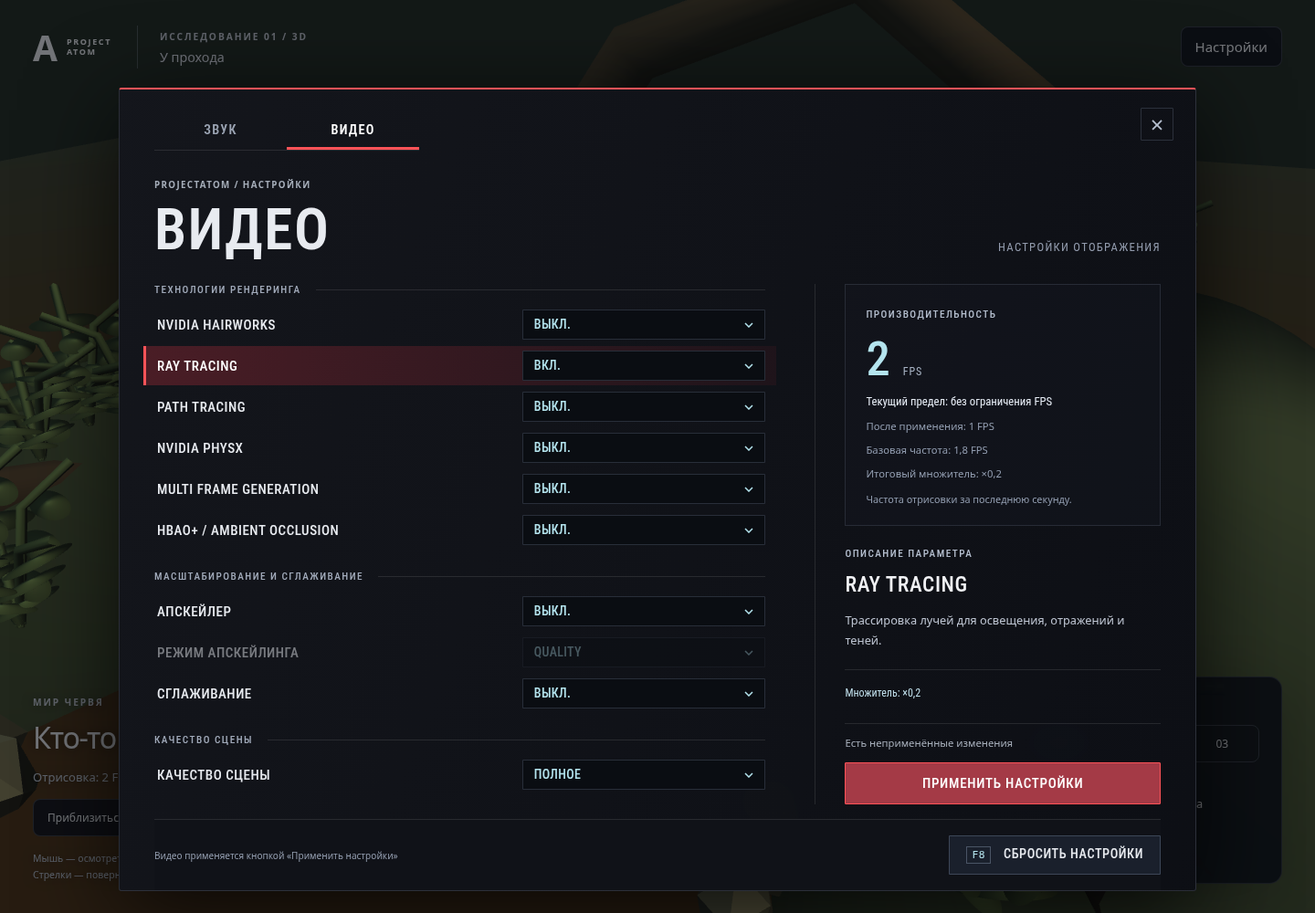
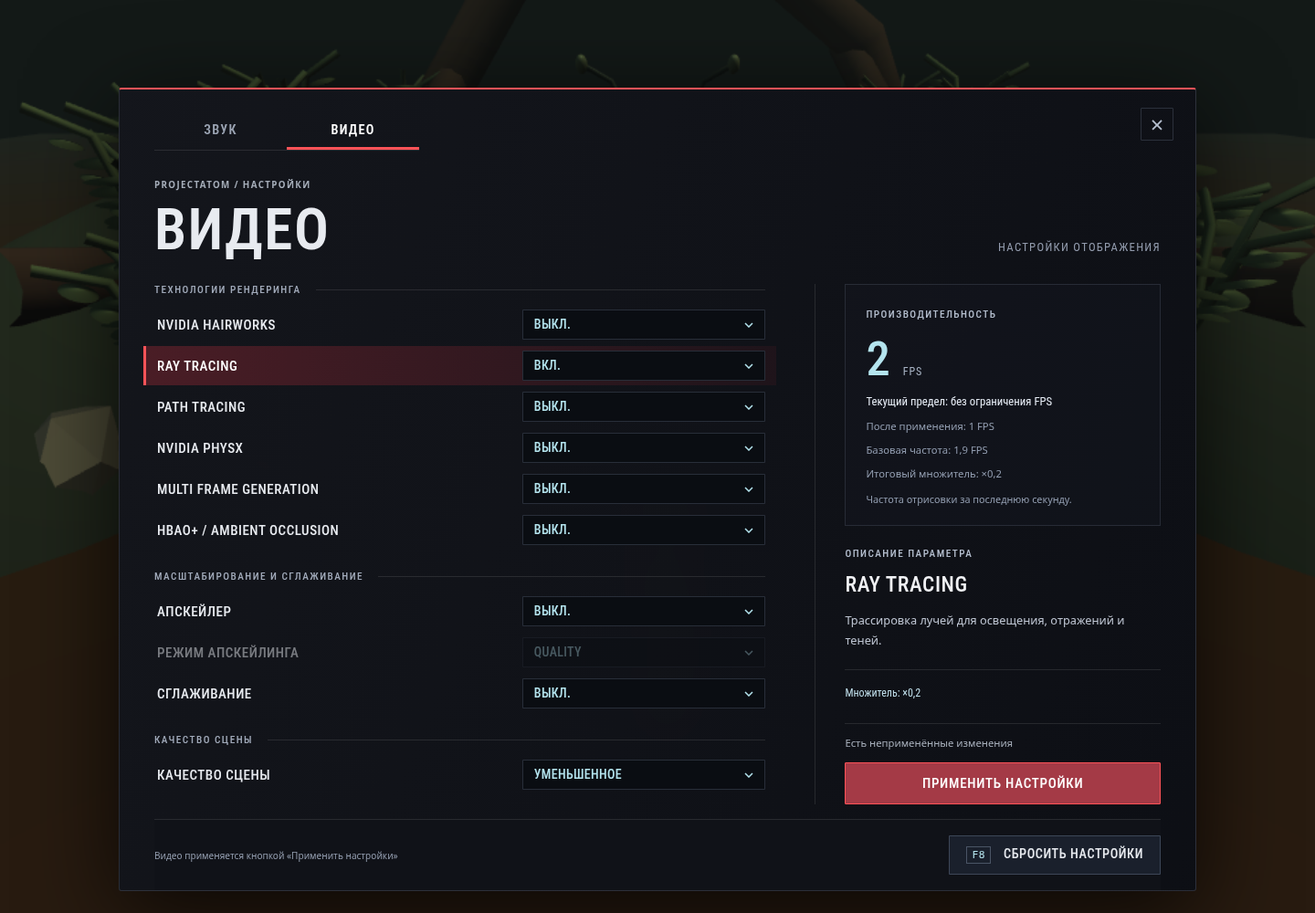
Document 0.9 controls and preserve ongoing validation status

diff --git a/tests/browser/study.spec.ts b/tests/browser/study.spec.ts
@@ -227,6 +227,7 @@ test('paid hints and optional recognition remain available only through the menu
   await expect(page.locator('#progress')).toHaveText('Распознано: 3 / 3');
   await page.locator('#quit').click();
   await page.locator('#enter').click();
+  await expect.poll(()=>page.evaluate(()=>document.pointerLockElement?.id)).toBe('world');
   await menu(page);
   await expect(page.locator('#hint-budget')).toHaveText('10');
 });

diff --git a/index.html b/index.html
@@ -3,7 +3,7 @@
   <head>
     <meta charset="UTF-8" />
     <meta name="viewport" content="width=device-width, initial-scale=1" />
-    <meta name="theme-color" content="#111914" />
+    <meta name="theme-color" content="#101218" />
     <link rel="icon" type="image/svg+xml" href="/favicon.svg" />
     <title>ProjectAtom — у прохода</title>
   </head>

diff --git a/docs/ARCHITECTURE.md b/docs/ARCHITECTURE.md
@@ -1,110 +1,56 @@
-# Архитектура 3D-технопробы
+# Архитектура управляемой 3D-технодемки
 
-Технопроба исследует читаемость модели и анимаций. Это пока не перенос всей игры в 3D: здесь нет оператора, создания матча, общего времени, лечения или финального взрыва. Предыдущая голосовая эстафета остаётся в `game.html`, эталон времени — в `sync-stand.html`. Оба файла сохранены без изменений.
+Babylon.js, TypeScript и Vite. Текущий этап — управляемый червь от третьего лица, жук-препятствие и подстилка; роли, общий матч и полная эстафета ещё остаются в `game.html`, три режима времени — в `sync-stand.html`. Эти файлы сохранены.
 
-## Карта проекта
+## Слои
 
-```text
-index.html                       точка входа браузера
-src/
-  main.ts                        сборка приложения, события, жизненный цикл
-  core/
-    observation.ts               наблюдения, варианты признаков, локальные ответы
-    motion.ts                    чистые траектории трёх жестов
-    observation.test.ts          проверка правил и геометрии движений
-  render/
-    createStudyScene.ts          движок, камера, свет, тени, качество, освобождение ресурсов
-    environment.ts              почва, корни, растения, следы контакта
-    meshTools.ts                 вспомогательное построение геометрии
-    contactAudio.ts              включаемые звуки удара и скрежета
-    models/
-      beetle.ts                  контракт заменяемой модели
-      proceduralBeetle.ts        первая модель и её сочленённые лапы
-  ui/studyView.ts                 DOM, формы и сообщения
-  style.css                      оформление и адаптивная компоновка
-tests/browser/study.spec.ts       проверка собранного приложения с настоящим WebGL
-public/                          поставляемые локально ресурсы
-dist/                            результат сборки, не хранится в Git
-```
+- `core/observation.ts`, `motion.ts`: воспроизводимые признаки и чистые траектории жестов.
+- `core/walk.ts`: положение/направление червя, нормализованное движение относительно камеры, ограничения прохода, действие подстилки и временная шкала жука.
+- `core/timing.ts`: часы попытки, планирование отрисовок, счётчик реальных кадров, замер доступной частоты.
+- `core/graphics.ts`: модель множителей и верхних пределов. `core/hints.ts`: общий запас и открытые уровни.
+- `render/createStudyScene.ts`: камера, освещение, тени, отображение мира, подстилка и качество.
+- `render/models/proceduralWorm.ts`: сегментированная модель червя и волна движения по пройденному расстоянию.
+- `render/models/proceduralBeetle.ts`: объёмный жук, три жеста и добавленная походка.
+- `render/environment.ts`: почва, корни, растения, пыль/следы контакта. Статические меши группируются по материалам.
+- `render/contactAudio.ts`: локальный синтез звука через общий GainNode, громкость и выключение.
+- `ui/studyView.ts`: старт, маленькое Escape-меню, настройки, платные подсказки и скрытая техническая проверка.
+- `ui/graphicsPanel.ts`: форма параметров, применённый снимок, предпросмотр и кнопка применения.
+- `main.ts`: время, ввод/Pointer Lock, жизненный цикл попытки, правила и рендер.
 
-Зависимости направлены от представления к правилам: `core` не импортирует Babylon.js или DOM. `main.ts` связывает состояние наблюдения с интерфейсом и сценой. Модель не знает, как игрок ответил на вопрос. Справочник и будущие эстафеты не должны обращаться к конкретным мешам или суставам.
+Core не импортирует Babylon.js или DOM. Зависимости идут от представления к правилам. Нет ECS, универсального движка квестов, игрового сервера или обмена состоянием через localStorage.
 
-## Модель и анимации
+## Время и движение
 
-`BeetleFactory` создаёт `BeetleActor`. У него есть корневой узел, `present({ gesture, symbol, seconds })` и `dispose()`. Фабрика передаётся в асинхронную `createStudyScene`; она может сразу вернуть актёра или вернуть Promise для загрузки GLB. По умолчанию используется процедурная модель. Это точка замены модели, а не универсальная система персонажей.
+ActiveClock — общий монотонный отсчёт текущей локальной попытки. Он активируется при входе и выключается только при завершении попытки. Меню, настройки и скрытие страницы не вызывают setActive(false). При следующем обновлении учитывается весь прошедший интервал. Это не готовый сетевой/UTC-таймер двух игроков: формат общего старта ещё нужно перенести из эталона. Сон ОС и разные платформы требуют отдельной проверки.
 
-Сейчас тело, панцирь, глаза, усики, брюшная пластина, знаки и шесть сочленённых лап строятся из геометрии Babylon.js. Траектория активной лапы задаётся в `core/motion.ts`, а модель превращает её в положение сегментов. Это постановочная анимация с меняющейся длиной сегментов, не полноценная биомеханическая симуляция или готовый скелетный риг.
+WalkSession продвигается независимо от допуска к дорогой отрисовке. Интервал разбивается на шаги не крупнее 1/120 секунды, диагонали нормализованы. Границы: X от −1,35 до 1,35; Z от −6,2 до 7,2. Пока жук блокирует, действует круг радиуса 1,92 у начала координат. Проекция учитывает и стенку, и круг, чтобы не продавить персонажа на их стыке. Движение не накапливает долг в меню; при остановке у препятствия лишняя работа пропускается. Это маленькая плоская модель столкновений, не проверка независимости будущей общей физики от FPS.
 
-Три жеста имеют разные признаки:
+Обработчики клавиш и мыши сначала учитывают движение по прежнему вводу до времени события, затем меняют ввод. Открытие меню, потеря захвата, blur и скрытие очищают клавиши. Клавиши берутся по code (KeyW и т.д.), чтобы раскладка не меняла WASD. Камера меняет yaw/pitch от movementX/Y, не требует нажатой кнопки. Для захвата нужен жест пользователя. При отказе остаётся меню с повторным запросом, а не молчаливый возврат к drag-управлению.
 
-- `wave`: лапа всё время над поверхностью; нет контакта, пыли и звука удара.
-- `tap`: два коротких контакта в одном месте и пауза; есть отдельные звуковые импульсы.
-- `scrape`: длительный контакт с перемещением вдоль земли; растут борозды и звучит скрежет.
+## Жук и подстилка
 
-Пауза останавливает локальное время жеста и звук. В скрытой вкладке время жеста также не продвигается. Это политика самостоятельной технопробы; она не определяет будущую политику общего таймера матча. Камеру можно вращать и во время паузы.
+До действия жук показывает выбранные знак и жест. E доступна после подхода к нему и кладёт одну подстилку. Это техническая последовательность, а не готовое сопоставление голосовых признаков с материалом. Дополнительный справочник/роль оператора не добавлялись.
 
-## Как позднее добавить модель из Blender
+Временная шкала от E: подход до 1,8 с, подбор до 2,6 с, уход до 5 с. Проход освобождается после 1,5 с, подстилка поднимается с 2,3 с и затем следует за жуком. Root актёра перемещается по сглаженной траектории; походка передаётся в present через необязательное walking. Пыль/следы жеста у исходного места выключаются после начала ухода, звук жеста заглушается. После завершения жук остаётся сбоку в окружении; нет мгновенного удаления модели.
 
-1. Хранить исходный `.blend` отдельно от готовой сборки, например в `art/source/`, экспортировать GLB в `public/models/`.
-2. Согласовать масштаб (одна единица — один метр), землю `Y=0` и перед персонажа вдоль `-Z`.
-3. Подготовить скелет и клипы `idle`, `wave`, `tap`, `scrape`. Знак на брюшке должен быть отдельной заменяемой деталью или материалом.
-4. Добавить Babylon glTF loader и отдельную фабрику `createGlbBeetle`. Она загрузит модель, реализует тот же `BeetleActor` и сопоставит названия клипов с `gesture`, а `seconds` — с временем воспроизведения.
-5. Передать новую фабрику в `createStudyScene`. Правила распознавания и UI не менять.
-6. Сверить моменты контакта анимационных клипов с пылью и звуком. Для клипов другой длительности нужно также обновить временные метки контакта; одной замены файла недостаточно.
+Брюшко, панцирь, глаза, усики, шесть сочленённых лап и три жеста сохранены. `wave` не касается земли; `tap` делает два контакта; `scrape` тянет лапу вдоль земли. Текущие суставы/сегменты постановочные, не полноценная биомеханика.
 
-Загрузчика GLB и демонстрационной модели из Blender сейчас нет: контракт подготовлен, фактический импорт проверяется при появлении первого такого ресурса. Все нынешние модели созданы программно внутри проекта; сторонние модели и внешние текстуры не используются.
+## Камера и модель
 
-## Контент и будущая игра
+ArcRotateCamera не подключает стандартные drag-вводы. Target следует за червём; камера получает углы мыши и выбирает дистанцию лучом до земли, земляного банка или крупного корня. Это простой ограничитель для данной сцены, не универсальная камера с физикой всех растений и декоративных объектов.
 
-`createObservations(seed)` воспроизводимо задаёт три наблюдения: каждый жест встречается один раз, порядок и знаки меняются. Число в параметре URL `?seed=12` удобно для повторной проверки. Это локальный сид технопробы, не пакет матча ATOM1 и не обещание совместимости генераторов.
+BeetleFactory асинхронная, BeetleActor имеет root, present({gesture,symbol,seconds,walking?}) и dispose. GLB-загрузчика и проверенной Blender-модели пока нет. Для замены потребуются масштаб, направление (жук смотрит в −Z, червь в +Z), клипы жестов и ходьбы, сопоставление их времени, знаков, контактов, звука и переноса подстилки. Одного копирования GLB недостаточно. Первые модели процедурные; Blender не нужен для запуска разработки.
 
-Обычный HUD не называет текущий жест. Игрок может выбрать описание для проверки; правильность появляется только после ответа. Варианты ответа скрыты в details. Подсказки открываются только по запросу и расходуют общий HintBank. Бесплатного описания в настройках нет.
+## Меню, настройки и подсказки
 
-При переносе эстафеты из `game.html` её состояния и переходы следует вынести в отдельный модуль `core/relay`, а сгенерированные соответствия — в данные контента. Обе роли останутся в одном приложении. Действия партнёра передаются голосом и последующим вводом; состояние мира не синхронизируется через физический движок, сеть или общий localStorage.
+Escape открывает небольшое центральное меню: продолжить, настройки, выйти. Оно освобождает мышь и останавливает только пользовательский ввод. Повторный Escape/продолжение возвращает Pointer Lock. Настройки открывают большое окно; закрытие возвращает маленькое меню. Выход завершает попытку и возвращает стартовый экран, не вызывает window.close. Полноценное главное меню/жизненный цикл — следующий проектный этап после пользовательской проверки.
 
-Не вводим заранее сетевой сервер, сложную ECS, универсальный редактор квестов или глобальную шину событий. Новую эстафету сначала выражаем небольшим набором состояний и действий; обобщаем только реально повторившиеся части.
+В игровом HUD нет кнопок; только пассивные FPS, клавиши и контекст E. Подсказки и проверка наблюдений находятся в раскрываемых блоках меню. HintBank: 10 общих очков, 3 уровня события beetle, открытые уровни читаются бесплатно и обновляют признаки при смене варианта. Новый запуск сбрасывает помощь и ответы; параметры звука/видео остаются до перезагрузки.
 
-## Сборка и поставка
+Настройки сохраняют серьёзный стиль и вкладки «Звук / Видео». Видео хранит отдельно форму и применённый снимок, включая реальное качество. Ничего не применяется до кнопки справа. F8/сброс также изменяют только форму. Громкость действует сразу через общий GainNode. Подробности: [модель FPS](design/FPS.md), [визуальное направление](design/VIDEO.md). Счётчик считает фактические scene.render, а усиления только возвращают ранее ограниченные отрисовки в пределах доступной производительности. Звук, часы и правила не ограничиваются FramePacer.
 
-Babylon.js, TypeScript и Vite закреплены в `package-lock.json`. Воспроизводимая установка — `npm ci`; никаких CDN при игре. Движок импортируется отдельными модулями, чтобы не включать весь Babylon.js со всеми подсистемами.
+## Проверки и сохранение
 
-`npm run build` проверяет типы и создаёт `dist/`. Его можно целиком скопировать на другой компьютер и раздавать локальным HTTP-сервером. Это одна сборка приложения с несколькими файлами; открытие `dist/index.html` через `file://` не поддерживается. Публичный сервер не нужен. Локальный сервер только отдаёт файлы.
+Чистые тесты покрывают контент/траектории, часы/кадры, множители, помощь, движение/столкновения и уход. Браузерный набор проверяет производственную сборку с реальным WebGL и Pointer Lock: WASD/мышь, меню без паузы, настройки/применение, звук, подсказки, узкий экран, потерю контекста и отказ захвата. Окончательные результаты и открытые ограничения фиксируются в [HANDOFF](HANDOFF.md). Отдельный пользовательский прогон Windows/Mac пока не проводился.
 
-## Проверка
-
-- `npm run test:unit`: воспроизводимость контента, локальные ответы и физические различия траекторий, включая непрерывность цикла.
-- `npm run build`: TypeScript и производственная сборка.
-- `npm test`: собранный сайт, реальный WebGL, изменение изображения при движении и стабильность при паузе, камера, звук, подсказки, исправление ответа, отсутствие внешних запросов, узкий экран и потеря видеоконтекста.
-
-Linux Chromium в облаке использует программный рендеринг для тестов. Его результаты не устанавливают производительность на видеокартах Windows/Mac и не доказывают, что человек уверенно различает жесты. Для этого нужен отдельный пользовательский прогон.
-
-## Первый пользовательский прогон
-
-1. Сначала оставь звук выключенным, подсказки и проверку ответа закрытыми. Посмотри три наблюдения в общем плане и вблизи.
-2. Попробуй описать другому человеку знак и движение без чтения вариантов ответа. Может ли он различить взмах, удар и скребущее движение по твоему рассказу?
-3. Затем проверь ответы в интерфейсе. Если ошибся, отметь, что мешало: ракурс, перекрытая лапа, слишком похожая траектория или недостаточно заметный контакт с землёй.
-4. Включи звук и сравни впечатление. Он может помогать, но визуальное различие должно работать и без него.
-5. Повтори в браузерах Windows/Mac. Если сцена тормозит, проверь уменьшенное качество и зафиксируй браузер и устройство. Облачные тесты не устанавливают целевую частоту кадров.
-
-## Время, графика и помощь (0.8)
-
-`core/timing.ts`: ActiveClock считает всё активное время по performance.now, меняет состояние на событиях входа, паузы и видимости. Смена наблюдения сбрасывает его время. FramePacer допускает только отрисовки с нужным интервалом; после задержки нет серии догоняющих кадров. На 5 FPS цикл жеста сохраняет длительность, но движение становится прерывистым. Звук обновляется независимо от разрешения рисовать. Будущая физика потребует отдельного фиксированного шага; в этой пробе её независимость от FPS не проверяется.
-
-FrameMeter учитывает только выполненные scene.render в основном цикле (прогрев до входа в сцену не включён). Canvas содержит data-animation-time и data-render-count для интеграционных проверок. DOM не ограничен FramePacer, busy-wait нет.
-
-`core/graphics.ts` вычисляет произведение затрат и усилений от замеренной базы X вместо прежней таблицы фиксированных FPS. Реальные коэффициенты модели, источники и ограничения в [design/FPS.md](design/FPS.md). `effectiveFrameCap(settings, baselineFps, cinematicCap = 0)` возвращает 0 для отсутствия искусственного лимита. Ручной и будущий художественный пределы — верхние границы после умножения. `UncappedFpsSampler` принимает только фактические неограниченные отрисовки при активной видимой сцене, фиксирует базу после ≥1,5 секунды и ≥3 интервалов. Скрытие/пауза прерывают незавершённую выборку; ограниченные кадры не снижают базу повторно. Реальная смена качества сцены сбрасывает замер.
-
-`ui/graphicsPanel.ts` управляет настройками без сохранения. `core/hints.ts` хранит общий запас и последовательные уровни событий, не знает о DOM. В пробе одно событие beetle с тремя уровнями и запасом 10: общий намёк, предложение описать необычное партнёру, прямое описание текущего знака и жеста. Прочтение и смена наблюдения не списывают очки; перезагрузка сбрасывает прогресс. Распределение помощи между ролями полной игры ещё не спроектировано.
-
-Графическая панель оформлена как широкое меню с секциями технологий, реконструкции изображения и частоты кадров. Все переключатели технологий — семантические select с вариантами «Выкл.»/«Вкл.», выбор технологии апскейлера включает отдельный select режима. Справа отображаются реальные отрисовки, действующий предел, предпросмотр изменений и контекстное пояснение строки по наведению, фокусу или выбору. На экранах до 750 px колонки становятся одной, панель прокручивается. Клавиатурный выбор и доступные названия сохранены.
-
-Проверка итоговой версии 0.8: npm run test:unit — 11 прошли; npm run build — успешно; полный npm test с системным Chromium — 6 прошли, без пропусков. Снимки обычного экрана и графического меню обновлены и просмотрены. Тест паузы сравнивает изображение самого canvas и активное время, а не пиксели DOM-кнопок. Это проверка Linux/программного WebGL, не замер производительности Windows/Mac.
-
-Последующее уточнение подачи: вкладка «Видео», нейтральные описания и серьёзное оформление без обозначения пародии в DOM. Диагностические пределы временно видны по запросу пользователя; актуальная модель множителей описана в design/FPS.md. Локальный Roboto Condensed (OFL) и палитра описаны в [design/VIDEO.md](design/VIDEO.md).
-
-
-## Центральное окно и применение параметров
-
-`studyView.ts` содержит один диалог постоянного размера, вкладки «Звук»/«Видео», фон, закрытие, возврат фокуса и навигацию вкладок стрелками. При открытии настроек сцена не ставится на паузу: это позволяет оценивать живой FPS. Кнопка паузы сцены сохраняет прежнее действие.
-
-`graphicsPanel.ts` хранит отдельно форму и применённые параметры, включая реальное качество сцены. Рендер получает только применённый снимок. Редактирование, F8, сброс, смена вкладки и закрытие не применяют видео. Кнопка справа под описанием атомарно принимает значения; изменение реального качества отправляется в main через video-quality-change и перезапускает замер. Звук меняется сразу, независимо от формы видео. ContactAudio направляет все источники через общий GainNode, регулятор 0–100% управляет им; пауза и выключение заглушают общий выход.
+Все текущие ресурсы локальные: движок в сборке, генерируемые модели/текстура/звук, локальный шрифт OFL. Публичный сервер и внешние запросы для игры не нужны. `dist` раздаётся через HTTP; открытие file:// не поддерживается. Установка — npm ci; сборка — npm run build; тесты — npm run test:unit и npm test. Каждая cloud-задача уже изолирована: использовать существующий checkout, не создавать worktree без просьбы пользователя. Регулярно обновлять HANDOFF и отправлять контрольные коммиты в экспериментальную ветку, без автоматического слияния в main/dev.

diff --git a/README.md b/README.md
@@ -1,87 +1,68 @@
-# Атомная бомба против умирающего червя
+# ProjectAtom
 
-[ТЗ и решения по игре](PROJECT_KNOWLEDGE.md) описывают концепцию, согласованные требования, результаты тестов и открытые вопросы.
+Асимметричная кооперативная 3D-игра про оператора, вымышленную атомную бомбу и выживающего червя. Требования и решения — [PROJECT_KNOWLEDGE.md](PROJECT_KNOWLEDGE.md).
 
-## 3D-технопроба на Babylon.js
+## Управляемый червь — технодемка 0.9
 
-![Жук в сцене Babylon.js](docs/images/beetle-study.png)
+Рабочая ветка: `spike/worm-third-person`. [Контекст восстановления и контрольные сохранения](docs/HANDOFF.md) — первый файл для продолжения после потери чата.
 
-Текущая работа — в ветке `spike/beetle-3d`. Это отдельная сцена для проверки объёмного жука и различимости жестов: машет, стучит, скребёт. Полная голосовая эстафета остаётся в старом `game.html` ниже. `main` и `dev` не обновлялись.
+![Червь от третьего лица](docs/images/worm-play.png)
 
-Нужен **Node.js 24 LTS** (или Node.js 22.18+). После установки Node заново открой терминал. Из папки проекта:
+Это локальный фрагмент для проверки управления: червь движется по земляному проходу, жук перекрывает дорогу. Можно подойти, осмотреть жука, положить подстилку сбоку и увидеть, как он подбирает её и уходит. Полная голосовая эстафета, выбор ролей, общий пакет старта, лечение и финал в эту 3D-версию ещё не перенесены.
 
-```bash
-git fetch origin
-git switch spike/beetle-3d
-npm ci
-npm run dev
-```
+### Запуск на Windows
 
-Открой адрес, который напишет Vite (по умолчанию `http://127.0.0.1:5173`). Нажми «Осмотреть место». Перетаскивай сцену мышью, приближай колесом; кнопки «Приблизиться» и «Общий план» возвращают удобные ракурсы. Переключатели 01–03 показывают три наблюдения. Текущий жест текстом не назван: сначала посмотри, затем по желанию раскрой «Проверить себя · технопроба». Настройки открываются в одном центральном окне: «Звук» содержит выключатель и общую громкость, «Видео» — параметры изображения и качество сцены. Звук по умолчанию выключен.
-
-Для повторения одинакового набора открой страницу с `?seed=12`. Во время проверки с партнёром сначала опиши движение и знак голосом; не зачитывай варианты ответа. Это ещё не полноценный матч с ролями.
-
-Остановка сервера: `Ctrl+C`. Для готовой сборки:
-
-```bash
-npm run build
-npm run preview
-```
-
-Готовые файлы находятся в `dist/`; всю папку можно передать на другой компьютер и запустить там локальную раздачу файлов. Открытие HTML двойным щелчком для этой версии не поддерживается. После установки зависимостей сборка и сама сцена не требуют внешних сервисов: модели, текстуры и звук создаются локально.
-
-Карта модулей и порядок будущей замены модели на Blender/GLB: [docs/ARCHITECTURE.md](docs/ARCHITECTURE.md).
-
-Проверки разработчика:
-
-```bash
-npm run test:unit
-npm run build
-npx playwright install chromium
-npm test
-```
-
-В облачной среде уже установлен системный Chromium; вместо загрузки браузера используется `PLAYWRIGHT_CHROMIUM_EXECUTABLE_PATH=/usr/bin/chromium npm test`. Эти проверки не измеряют скорость игры на компьютерах игроков. Форматирование кода: `npm run format`.
-
-## Эталон времени и предыдущий 2D-макет
-
-[sync-stand.html](sync-stand.html) содержит исходный код стенда и запускается как самостоятельная HTML-страница. Для проверки открой файл в браузере на Windows и Mac, создай код на одном устройстве и введи его на другом. Интернет-время выбрано по умолчанию и обращается к UTCTime перед стартом. Системные часы и ручной запуск доступны в меню создания теста.
-
-Для продолжения разработки начни с разделов 6 и 11 ТЗ и сохрани рабочее поведение трёх режимов. Этот стенд можно использовать как эталон при переносе логики времени в игру.
-
-
-## Первый игровой макет
-
-Открой `game.html` на каждом компьютере (один и тот же файл). Игрок 1 выбирает «оператор», режим старта и создаёт глобальный сид. Игрок 2 выбирает «червь» и вставляет весь полученный сид. Для ручного режима оба нажимают «Начать» под голосовой отсчёт. Для системного/интернет-времени дождитесь старта. Интернет-время требует доступа к `https://utctime.app`; при ошибке можно явно создать новую игру в другом режиме.
-
-Дальше общайтесь голосом: червь описывает знак и жест жука, оператор ищет инструкцию на компьютере. После открытия прохода червь сообщает маркировку кабеля, оператор подключает подготовленный прибор. Сведения для следующей поляны завершают этот макет. Между экземплярами нет обмена игровыми данными. Перезагрузка сбрасывает попытку. Это схематичный 2D-макет; полная игра остаётся 3D.
-
-Рабочие ветки: `main` — более готовый продукт, `dev` — разработка, `mvp/beetle-relay` — предыдущий 2D-эксперимент, `spike/beetle-3d` — текущая технопроба. Макеты пока не перенесены в `dev` или `main`.
-
-При необходимости запусти локальную раздачу файлов из каталога проекта: `python3 -m http.server 8000`. Затем открой `game.html` через этот сервер на том же компьютере. Сервер только раздаёт файлы.
-
-Проверка разработчика: `python3 tests/smoke.py`. Нужны Python Playwright и Chromium (по умолчанию `/usr/bin/chromium`, можно указать `CHROMIUM_PATH`). Проверки запускают временный локальный HTTP-сервер и два изолированных браузерных контекста; UTCTime в тесте имитируется. Это не заменяет голосовой прогон на Windows + Mac.
-
-## Версия 0.8: видео и подсказки
-
-Во вкладке «Видео» — выпадающие параметры, контекстное описание и фактический FPS. Изменения сначала остаются в форме: справа под описанием нажми «Применить настройки». Текущий предел и расчёт после применения показаны отдельно. Переключение вкладок, закрытие окна и повторное открытие не применяют изменения. Кнопка сброса и F8 возвращают значения формы по умолчанию; затем также нужно нажать «Применить». Звук и громкость меняются сразу. Esc, крестик или щелчок по фону закрывают окно.
-
-Вместо фиксированных пределов используется измеренная базовая частота X. Множители: HairWorks ×0,7, Ray Tracing ×0,2, Path Tracing ×0,3, PhysX ×0,9. Они перемножаются: при X=165 RT+PT даёт 9,9 FPS. Генерация ×2/×3/×4 и режимы DLSS / FSR / XeSS компенсируют потери, но не создают частоту выше доступной без ограничений. Коэффициенты — параметры эксперимента, не реальные бенчмарки SDK. Подробности и ссылки на официальные материалы — [модель FPS](docs/design/FPS.md).
-
-Базовая частота измеряется при активной видимой сцене без искусственного лимита и фиксируется после короткого замера. Реальное изменение качества сцены требует нового замера. Во время начального замера ограничения временно не действуют. Счётчик всегда показывает реальные вызовы отрисовки; на паузе — «Пауза». Настройки и черновик формы сбрасываются после перезагрузки.
-
-Подсказки открываются только по запросу: общий запас 10, три последовательных уровня события beetle по одному очку. Наблюдения 01–03 — варианты одного события; открытые уровни читаются бесплатно, при смене варианта третий уровень обновляет признаки. Максимальный расход здесь 3, остаток 7. Бесплатного текстового ответа в настройках нет. Перезагрузка сбрасывает графику и подсказки.
-
-Обновление в Windows PowerShell (после сохранения собственной работы):
+Нужен Node.js 24 LTS (либо >=22.18). Из каталога репозитория в PowerShell, после сохранения своих изменений:
 
 ```powershell
 git fetch origin
-git switch spike/beetle-3d
-git pull --ff-only origin spike/beetle-3d
+git switch spike/worm-third-person
+git pull --ff-only origin spike/worm-third-person
 npm.cmd ci
 npm.cmd run dev
 ```
 
-Снимки обновлённого меню: [графика](docs/images/graphics-settings.png), [узкий экран](docs/images/graphics-narrow.png), [звук](docs/images/sound-settings.png).
+Открой адрес Vite (обычно `http://127.0.0.1:5173`) и нажми «Начать технодемку». Браузер захватит указатель мыши. Если захват запрещён, меню предложит повторить его кнопкой «Продолжить игру»; для встроенного окна могут требоваться разрешения браузера.
 
-Визуальное направление меню «Видео», источники и ограничения исследования: [docs/design/VIDEO.md](docs/design/VIDEO.md). Палитра интерфейса — графитовая с красным акцентом и голубыми значениями. Шуточные надписи удалены; сведения о пределах FPS пока оставлены по запросу пользователя.
+| Управление | Действие |
+| --- | --- |
+| WASD | Движение червя относительно направления камеры |
+| Мышь без удержания кнопки | Обзор от третьего лица |
+| E около жука | Положить подстилку сбоку |
+| Escape | Открыть/закрыть маленькое меню |
+| «Настройки» в меню | Открыть большое окно «Звук / Видео» |
+
+В игре нет кликабельных кнопок камеры, паузы и настроек. В меню мышь свободна; «Продолжить игру» возвращает захват. Из настроек Escape, крестик или фон возвращают в маленькое меню. «Выйти из игры» завершает попытку и возвращает стартовый экран, не закрывая вкладку браузера.
+
+Меню **не останавливает время**: анимации и отсчёт запущенной попытки продолжаются в нём и в настройках. Скрытие вкладки очищает ввод движения, но не останавливает часы. Это ещё не синхронизация двух клиентов: общий старт матча и три режима времени остаются в прежних макетах. Сон ОС и пользовательский прогон Windows/Mac отдельно не подтверждены.
+
+Подстилка — одно локальное техническое действие без подбора материала и операторского справочника: она проверяет последовательность подхода, подбора и ухода жука. Это не готовая загадка полной игры. Столкновения ограничивают червя проходом и жуком; камера приближается перед крупными препятствиями. Модели процедурные, полноценной физики, GLB-рига и биомеханики пока нет.
+
+### Настройки и помощь
+
+«Звук»: включение эффектов и общая громкость 0–100%, действуют сразу. «Видео»: множители от измеренного базового FPS, апскейлеры, генерация кадров, реальное качество сцены и ручной лимит. Изменения сначала остаются в форме и действуют только после **«Применить настройки»** справа. F8/сброс также требуют применения. Смена вкладки и закрытие не применяют форму автоматически. Подробности — [модель FPS](docs/design/FPS.md), [визуальное направление](docs/design/VIDEO.md).
+
+Настройки сохраняются между попытками до перезагрузки страницы. Выход и новый запуск сбрасывают положение червя, действие подстилки, время и подсказки. В меню по запросу доступны 10 очков помощи и 3 последовательных уровня события beetle: каждый новый стоит одно очко, повторное чтение бесплатно. «Техническая проверка» в меню содержит три варианта наблюдения и проверку ответов. Обычный игровой HUD не выдаёт знак, жест или решение. `?seed=12` воспроизводит набор наблюдений.
+
+Снимки: [маленькое меню](docs/images/pause-menu.png), [уход жука](docs/images/beetle-departure.png), [видео](docs/images/graphics-settings.png), [звук](docs/images/sound-settings.png).
+
+### Сборка и проверки
+
+```sh
+npm ci
+npm run test:unit
+npm run build
+PLAYWRIGHT_CHROMIUM_EXECUTABLE_PATH=/usr/bin/chromium npm test
+```
+
+Последняя строка — для Linux-среды с системным Chromium. На обычном компьютере установи браузер через `npx playwright install chromium`, затем `npm test`. Тесты работают с производственной сборкой через Vite preview, а не только с исходниками. Проверки и их актуальные результаты записываются в HANDOFF; не переносить успех старого прогона на новый код.
+
+`npm run build` создаёт папку `dist/`, `npm run preview` запускает её локально. Можно перенести всю папку и раздавать локальным HTTP-сервером. Открытие `dist/index.html` через `file://` не поддерживается. Модели, текстура, шрифт и синтез звука локальные; публичный игровой сервер и внешние запросы для этой демки не нужны. Форматирование: `npm run format`. [Архитектура](docs/ARCHITECTURE.md).
+
+## Предыдущие макеты
+
+- `sync-stand.html` — эталон трёх режимов времени: UTCTime по умолчанию, системные часы, ручной старт. Пользователь проверял его на Windows/Mac.
+- `game.html` — прежняя 2D-голосовая эстафета с обеими ролями, общим сидом, выбором подстилки, проходом к еде и подключением прибора. Это схематичный макет, не новая 3D-версия. Проверки: `python3 tests/smoke.py` (Python Playwright + Chromium).
+- `spike/beetle-3d` — предыдущая отдельная сцена осмотра и настроек; базовый коммит нового этапа — 8658664.
+
+`main` остаётся для более готового продукта, `dev` — для разработки; экспериментальные ветки не сливаются в них автоматически. Следующий шаг после пользовательской проверки червя — проектирование жизненного цикла, главного меню и начала полноценной игры, без преждевременного добавления сервера, аккаунтов или облачного ИИ.

diff --git a/docs/HANDOFF.md b/docs/HANDOFF.md
@@ -108,3 +108,10 @@ main.ts переподключён: WASD относительно камеры, 
 Полный набор переписан под новое управление: 8 сценариев, старые кнопки больше не используются. В первом полном запуске уже прошёл сценарий Escape/возобновления/настроек/выхода. Первый тест WebGL остановился на слишком узкой области считывания пикселей: в новой камере центр кадра оказался однотонной землёй. Проверка заменена считыванием всей реальной framebuffer с выборкой цветов; требование разнообразного изображения сохранено. Итог полного прогона ещё НЕ получен. После окончания потребуется новый прогон актуального кода.
 
 Следующие шаги: завершить полный браузерный набор, исправить выявленное; проверить обновлённые снимки, обновить README/архитектуру, записать итоговые числа/ограничения и отправить финальный коммит. Не представлять текущий промежуточный коммит как полностью проверенный релиз.
+
+
+### Контрольный этап 4 — документация текущего управления
+
+README и ARCHITECTURE переписаны под управляемую демку, версия пакета поднята до 0.9.0 без новых зависимостей. Даны Windows-команды перехода на spike/worm-third-person, WASD/мышь/E/Escape, ограничение текущей локальной подстилки и отсутствие общего матча/роли оператора. Время в меню/скрытии не выдаётся за готовую межклиентскую синхронизацию.
+
+В первом полном браузерном запуске после smoke уже прошли Escape/возобновление/выход, видео/реальное качество/FPS и общий аудиовыход. Первый WebGL-тест исправлен на считывание всей сцены, остальные проверки пока выполняются. Следующий шаг остаётся прежним: дождаться завершения текущего процесса, затем собрать 0.9.0 и запустить окончательный полный набор с исправленной проверкой. Не запускать параллельно две тяжёлые WebGL-сессии, чтобы не перегружать программный рендер.

diff --git a/docs/design/VIDEO.md b/docs/design/VIDEO.md
@@ -41,3 +41,5 @@
 11 ноября 2026: npm run build прошёл; npm run test:unit — 11 прошли; полный npm test в системном Chromium — 6 прошли за 3,5 минуты, без пропусков. Браузерная проверка явно открывает вкладку «Видео» и проверяет отсутствие объясняющих шутку текстов. Проверены выбор технологий и режимов, фактические отрисовки на 5 FPS, сохранение скорости времени и сброс. Обновлены и просмотрены снимки широкого и узкого экранов. При сборке путь локального шрифта преобразован в относительный, чтобы сохранить поставку из папки dist.
 
 Позднейшее уточнение: единое окно «Звук» / «Видео», громкость 0–100% и отложенное применение видео. Текущий предел, предварительный расчёт и реальный FPS разделены; вместо фиксированной таблицы используется [модель множителей](FPS.md). Размер и положение окна не зависят от активной вкладки.
+
+Этап 0.9: большое окно настроек открывается из маленького Escape-меню. В игровом HUD больше нет кнопки настроек; изменение параметров сохраняет прежнее отложенное применение. Закрытие настроек возвращает маленькое меню, продолжение возвращает Pointer Lock.
